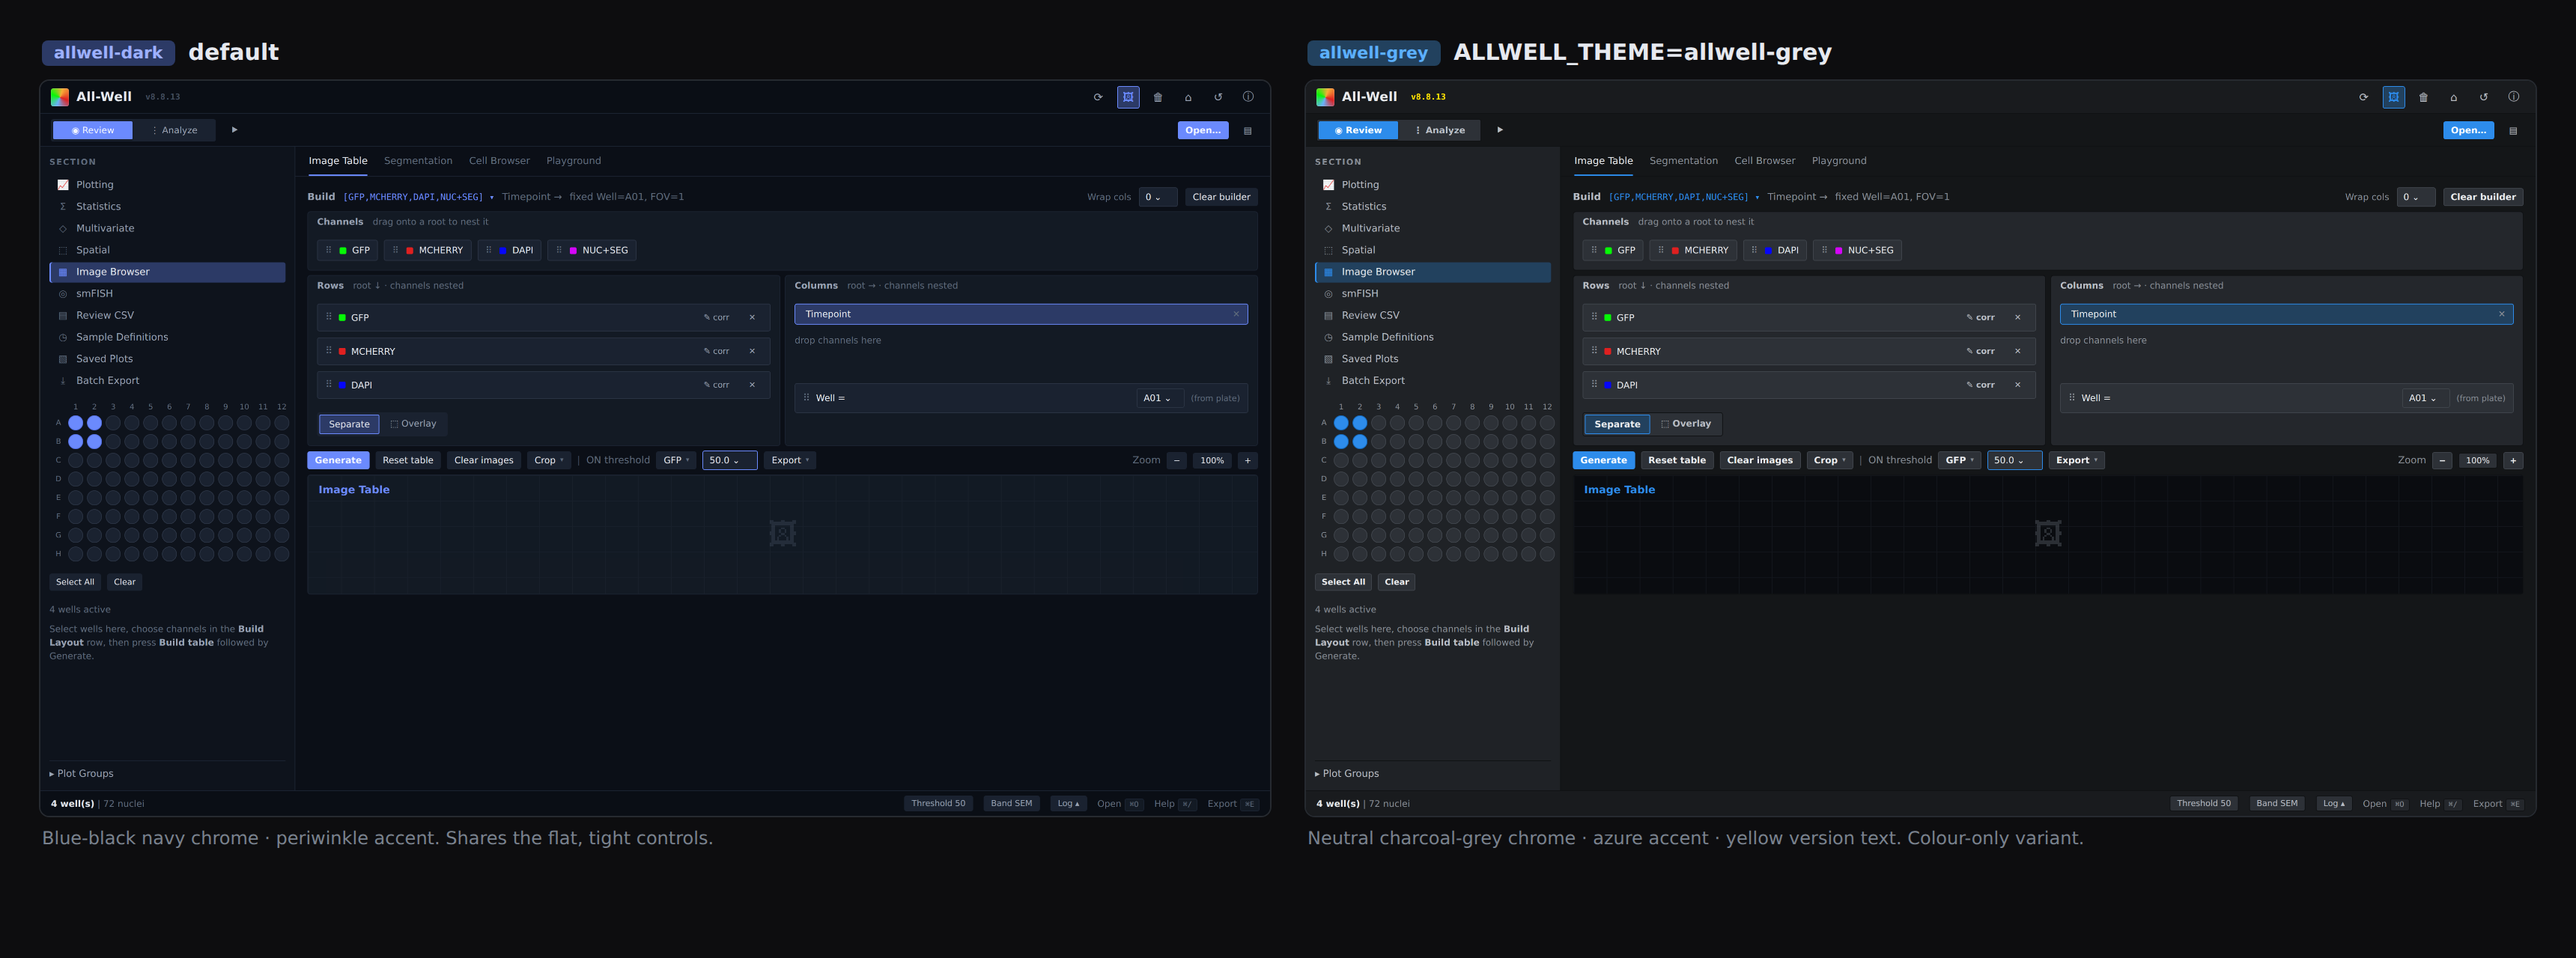
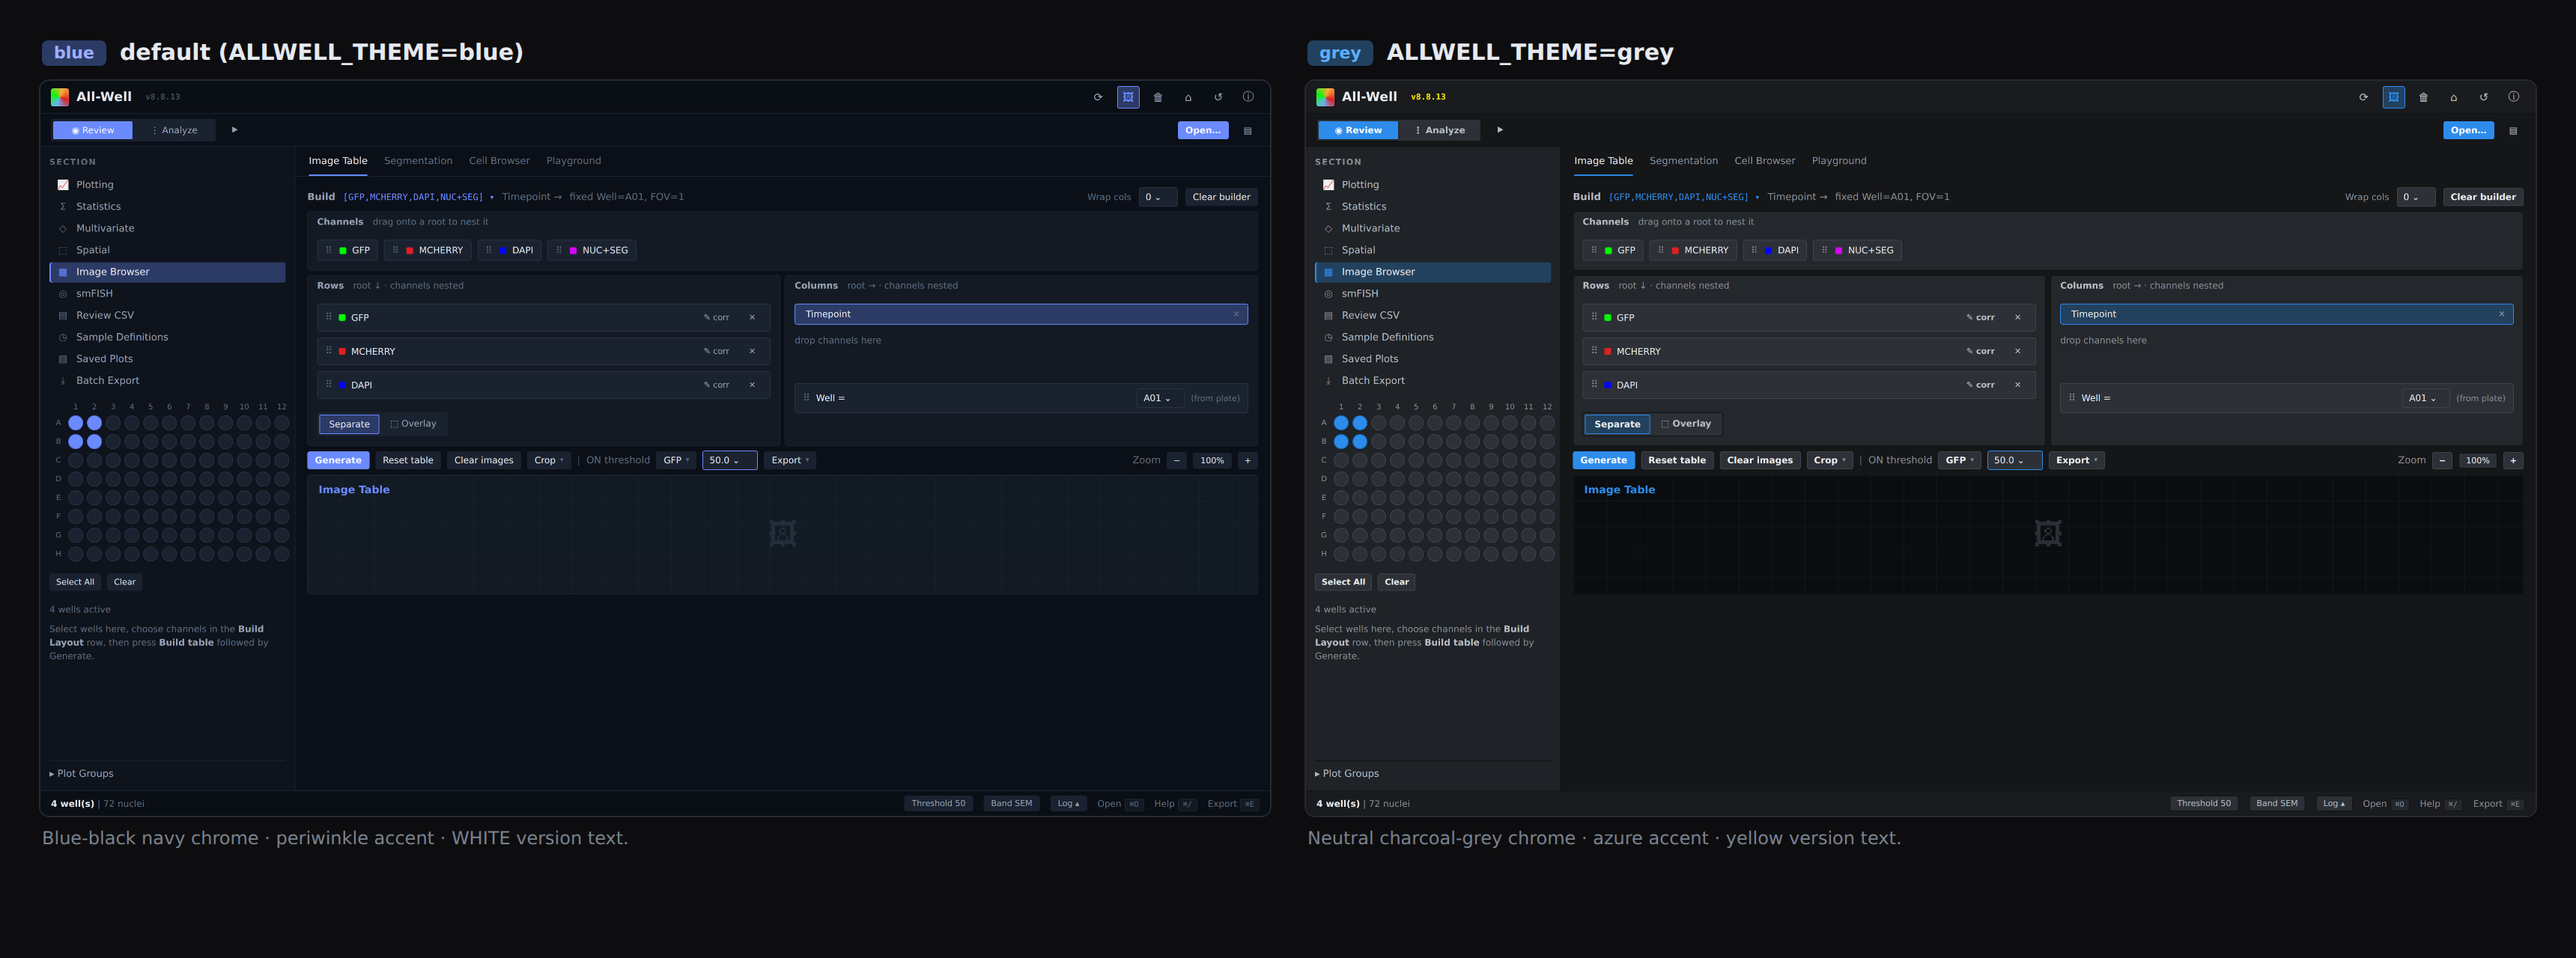
Rename themes (blue/grey) + white version pill on the default theme
Follow-up to the theme work merged in #680:

- Version pill: the default theme's pill text is now white (Colors.brand_fg
  #404B5C -> #FFFFFF). The grey theme keeps its yellow pill text.
- Rename the themes: allwell-dark -> "blue" (DEFAULT_THEME) and allwell-grey ->
  "grey". Updated the THEMES keys, the bundle (_GREY), select_theme_from_env's
  fallback, comments/docstrings, ARCHITECTURE.md §8, the render_views example,
  the design mockup (design/grey_theme_mockup.html + its data-theme/CSS), and the
  audit renders (theme-/real-blue.png, theme-/real-grey.png). ALLWELL_THEME /
  --theme now take "blue" or "grey".

Verified: theme round-trip (blue default = white pill, grey = yellow pill; env
falls back to blue); architecture/theme/guardrail + app-smoke tests pass (28);
real Qt renders confirm the white pill on blue.

Claude-Session: https://claude.ai/code/session_01TTAnmHGEFmq5pch3irKB9Z

diff --git a/design/grey_theme_mockup.html b/design/grey_theme_mockup.html
@@ -1,8 +1,8 @@
 <!DOCTYPE html>
-<html lang="en" data-theme="allwell-grey">
+<html lang="en" data-theme="grey">
 <head>
 <meta charset="utf-8">
-<title>All-Well — All-Well Grey theme mockup</title>
+<title>All-Well — Grey theme mockup</title>
 <style>
 /* ────────────────────────────────────────────────────────────────────────
    Theme-token mockup of the All-Well shell. CSS variables mirror the Qt
@@ -11,7 +11,7 @@
    design reference only — the real styling lives in theme.py's qss().
    ──────────────────────────────────────────────────────────────────────── */
 
-:root[data-theme="allwell-dark"] {
+:root[data-theme="blue"] {
   --titlebar:#0A0E15; --surface:#0B0F17; --rail:#0E131C; --panel:#131A24;
   --panel-elevated:#1A2230; --hover:#212B3B; --active:#2A3548;
   --border-subtle:#1B2331; --border:#2A3343; --border-strong:#3B475C;
@@ -26,11 +26,11 @@
   --btn-pad-v:4px; --btn-pad-h:9px; --panel-pad:12px; --gap:6px; --nav-pad-v:6px; --content-pad:14px;
   --btn-weight:500; --tab-underline:2px;
 }
-/* All-Well Grey — a colour-only variant: neutral charcoal-grey chrome + azure
+/* Grey — a colour-only variant: neutral charcoal-grey chrome + azure
    accent, near-black image canvas, yellow version-pill text. Shares the flat,
-   tight control feel (radii/padding) with allwell-dark. (Designed against real
+   tight control feel (radii/padding) with the default blue theme. (Designed against real
    Nikon NIS-Elements AR screenshots.) */
-:root[data-theme="allwell-grey"] {
+:root[data-theme="grey"] {
   --titlebar:#191B1E; --surface:#141618; --rail:#1F2226; --panel:#24272C;
   --panel-elevated:#2D3137; --hover:#373C43; --active:#3E444D;
   --border-subtle:#101214; --border:#3F444B; --border-strong:#50565E;

diff --git a/theme.py b/theme.py
@@ -66,7 +66,7 @@ class Colors:
     border_strong   = "#3B475C"   # --border-strong : hover/focus ring on inputs
     # Resting border on push/tool buttons. Defaults to the same subtle hairline
     # buttons used before it was split out; a theme can make buttons read as
-    # crisp "toolbar" controls (e.g. All-Well Grey) without also thickening
+    # crisp "toolbar" controls (e.g. the grey theme) without also thickening
     # every panel/divider that reads ``border_subtle``.
     control_border  = "#1B2331"   # --control-border : QPushButton / QToolButton edge
 
@@ -84,11 +84,11 @@ class Colors:
     accent_fg       = "#F0F4FF"   # --accent-fg  : text/icon on accent-filled buttons
 
     # ── Brand cue (version pill) ─────────────────────────────────────────
-    # A small, theme-swappable brand chip. The default palette keeps it a
-    # transparent, faint-text pill (visually the pre-existing version label);
-    # a variant theme (e.g. All-Well Grey) can recolour the text — see ``THEMES``.
+    # A small, theme-swappable brand chip. The default (blue) palette keeps it a
+    # transparent pill with white text; a variant theme (e.g. grey) can recolour
+    # the text — see ``THEMES``.
     brand           = "transparent"  # --brand    : version-pill fill
-    brand_fg        = "#404B5C"      # --brand-fg : version-pill text (== text_faint)
+    brand_fg        = "#FFFFFF"      # --brand-fg : version-pill text
 
     # ── Status ───────────────────────────────────────────────────────────
     success         = "#4ADE80"   # --success
@@ -213,7 +213,7 @@ class Radii:
     """Border-radius tokens (DESIGN_TOKENS.md §4).
 
     Tightened to a flat, near-rectangular "instrument-panel" feel — the shared
-    default for both bundled themes (``allwell-dark`` and ``allwell-grey``).
+    default for both bundled themes (``blue`` and ``grey``).
     """
 
     xs   = 3     # --r-xs   : file chip, logo tile, tiny inline indicators
@@ -230,7 +230,7 @@ class Metrics:
     buttons/inputs can be tightened (a denser, flatter "instrument-panel" control
     feel) without disturbing the layout gutters. :func:`qss` reads these for the
     button / tool-button / input / combo paddings. These tightened values are the
-    shared default for both bundled themes (``allwell-dark`` and ``allwell-grey``).
+    shared default for both bundled themes (``blue`` and ``grey``).
     """
 
     btn_pad_v    = 4   # QPushButton / QToolButton vertical padding
@@ -835,18 +835,19 @@ import logging as _logging
 
 _LOG = _logging.getLogger(__name__)
 
-DEFAULT_THEME = "allwell-dark"
+DEFAULT_THEME = "blue"
 
 # Classes a theme bundle may override, by name.
 _THEMEABLE_CLASSES = {"Colors": Colors, "Metrics": Metrics, "Radii": Radii}
 
-# All-Well Grey: a neutral charcoal-grey chrome variant (colour-only) — restrained
-# azure accent, near-black image canvas, and a yellow version-pill text cue via
+# Grey: a neutral charcoal-grey chrome variant (colour-only) — restrained azure
+# accent, near-black image canvas, and a yellow version-pill text cue via
 # ``brand_fg``. Shares the flat, tight control feel (``Radii`` / ``Metrics``) with
-# ``allwell-dark``, so this bundle overrides *only* colours. (The look was designed
-# against real Nikon NIS-Elements AR screenshots; the ``control_border`` split lets
-# its buttons read as crisp toolbar controls without thickening panel dividers.)
-_ALLWELL_GREY = {
+# the default ``blue`` theme, so this bundle overrides *only* colours. (The look
+# was designed against real Nikon NIS-Elements AR screenshots; the
+# ``control_border`` split lets its buttons read as crisp toolbar controls
+# without thickening panel dividers.)
+_GREY = {
     "Colors": {
         "titlebar": "#191B1E", "surface": "#141618", "rail": "#1F2226",
         "panel": "#24272C", "panel_elevated": "#2D3137", "hover": "#373C43",
@@ -870,16 +871,16 @@ _ALLWELL_GREY = {
     },
 }
 
-# name → override bundle. ``allwell-dark`` is the built-in default (no overrides;
-# the class values above are its palette). ``allwell-grey`` is a colour-only
-# variant sharing allwell-dark's Radii/Metrics.
+# name → override bundle. ``blue`` is the built-in default (no overrides; the
+# class values above are its palette). ``grey`` is a colour-only variant sharing
+# blue's Radii/Metrics.
 THEMES = {
     DEFAULT_THEME: {},
-    "allwell-grey": _ALLWELL_GREY,
+    "grey": _GREY,
 }
 
 # Capture the default value of every attribute any theme may touch, so switching
-# back to ``allwell-dark`` (or between themes) restores untouched tokens.
+# back to ``blue`` (or between themes) restores untouched tokens.
 _THEME_DEFAULTS: dict = {}
 for _cname, _bundle in THEMES.items():
     for _k, _attrs in _bundle.items():

diff --git a/allwell.py b/allwell.py
@@ -190,7 +190,7 @@ class AllWellApp(QMainWindow):
         # Single source of truth for the app stylesheet — see theme.py. The
         # active theme's tokens are already applied by ``main`` (via
         # ``theme.select_theme_from_env``) before this runs, so ``qss()`` here
-        # reflects the selected theme (ALLWELL_THEME); default is allwell-dark.
+        # reflects the selected theme (ALLWELL_THEME); default is blue.
         app = QApplication.instance()
         if app is not None:
             app.setStyleSheet(theme_v2.qss())
@@ -221,8 +221,8 @@ class AllWellApp(QMainWindow):
         self._version_pill = QLabel(f"v{_APP_VERSION}")
         self._version_pill.setObjectName("VersionPill")
         # Brand pill. Reads the theme-swappable ``brand`` / ``brand_fg`` tokens:
-        # the default palette makes it a transparent, faint-text label; the
-        # All-Well Grey theme keeps it transparent with yellow text.
+        # the default (blue) theme is a transparent pill with white text; the
+        # grey theme keeps it transparent with yellow text.
         self._version_pill.setStyleSheet(
             f"background-color: {theme_v2.Colors.brand}; "
             f"color: {theme_v2.Colors.brand_fg}; "

diff --git a/tests/visual/render_views.py b/tests/visual/render_views.py
@@ -57,7 +57,7 @@ def setup_app() -> QApplication:
         QFontDatabase.SystemFont.FixedFont
     ).family()
     # Honour ALLWELL_THEME so the audit can render any registered theme (e.g.
-    # ALLWELL_THEME=allwell-grey) — applied before qss() and before any view
+    # ALLWELL_THEME=grey) — applied before qss() and before any view
     # is built, exactly as allwell.main() does.
     th.select_theme_from_env()
     app.setStyleSheet(th.qss())

diff --git a/_Docs/Markdowns/ARCHITECTURE.md b/_Docs/Markdowns/ARCHITECTURE.md
@@ -1518,7 +1518,7 @@ The app has two complementary theme surfaces:
    redesign. `Colors`, `Typography`, `Spacing`, `Radii`, `Metrics` (control
    padding — themeable for density), plus a `qss()` builder that produces the
    full application stylesheet. The `widgets/` package and most of the app shell
-   read from `theme.Colors.*`; the default (`allwell-dark`) palette is the class
+   read from `theme.Colors.*`; the default (`blue`) palette is the class
    values here. This is the single source of the app chrome QSS. `theme.py`
    *also* holds the **theme registry** (`THEMES` / `apply_theme` /
    `select_theme_from_env`) — see "Selecting a theme" below.
@@ -1546,20 +1546,20 @@ at construction, applying a theme up-front re-skins the whole app with **no
 per-widget rewiring**.
 
 - `theme.THEMES` maps a name → sparse override bundle. Built-ins:
-  `allwell-dark` (the default; the class values are its palette) and
-  `allwell-grey` (a **colour-only** variant — neutral charcoal-grey chrome, azure
+  `blue` (the default; the class values are its palette) and
+  `grey` (a **colour-only** variant — neutral charcoal-grey chrome, azure
   accent, near-black plot canvas, yellow version-pill text via `Colors.brand_fg`).
   Both share the flat, tight control feel: the `Radii`/`Metrics` defaults
   (small radii + crisp `control_border` + compact padding) are app-wide, so the
-  `allwell-grey` bundle overrides only `Colors`. (Its look was designed against
+  `grey` bundle overrides only `Colors`. (Its look was designed against
   real Nikon NIS-Elements AR screenshots.)
 - `theme.apply_theme(name)` resets every themeable attribute to its captured
   default, applies the bundle, and fires post-apply hooks
   (`register_theme_hook`). `select_theme_from_env()` reads the **`ALLWELL_THEME`**
-  env var (falling back to `allwell-dark` on unset/unknown). `allwell.main()`
+  env var (falling back to `blue` on unset/unknown). `allwell.main()`
   calls it once, before building `AllWellApp`; `--theme <name>` overrides the env
   var. `tests/visual/render_views.py` honours it too, so
-  `ALLWELL_THEME=allwell-grey … render_views.py` audits any theme.
+  `ALLWELL_THEME=grey … render_views.py` audits any theme.
 - **Startup-only, by design.** There is no in-app live switch — a runtime swap
   would need every cached inline QSS rebuilt on `QEvent.StyleChange` (see the
   per-instance-QSS note below), which hit a ~20 s repaint cascade. Selection is
